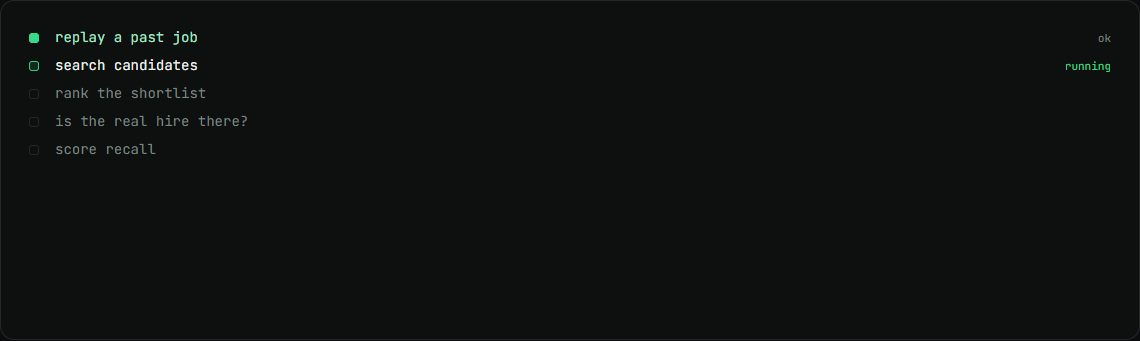
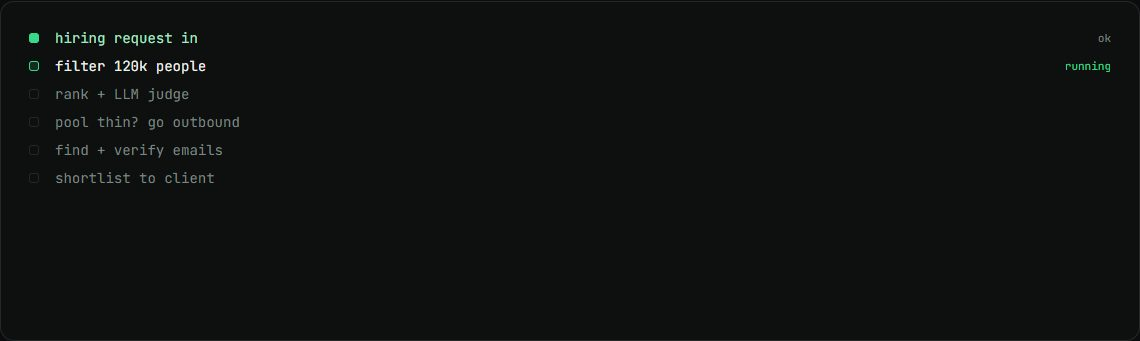
Candidate search page: add search stack, outbound sourcing and client hires
Retitled Candidate search evals to Candidate search and outbound sourcing,
added the outbound tools (AI Ark, Serper, Apify, SalesQL, FullEnrich, Reoon,
ZeroBounce, Instantly), new results, an NDA demo-on-a-call note, and new
DevPlusOps experience points. Moved it to the first standard system.

diff --git a/systems/candidate-search/index.html b/systems/candidate-search/index.html
@@ -3,11 +3,11 @@
 <head>
 <meta charset="utf-8">
 <meta name="viewport" content="width=device-width, initial-scale=1">
-<title>Candidate search evals | Muhammad Ahmad Tehseen</title>
-<meta name="description" content="Measuring and fixing an AI candidate search for a US talent marketplace.">
+<title>Candidate search and outbound sourcing | Muhammad Ahmad Tehseen</title>
+<meta name="description" content="Search the client&#39;s own pool, go outbound when it runs dry, and check every change against real hires.">
 <meta property="og:type" content="website">
-<meta property="og:title" content="Candidate search evals | Muhammad Ahmad Tehseen">
-<meta property="og:description" content="Measuring and fixing an AI candidate search for a US talent marketplace.">
+<meta property="og:title" content="Candidate search and outbound sourcing | Muhammad Ahmad Tehseen">
+<meta property="og:description" content="Search the client&#39;s own pool, go outbound when it runs dry, and check every change against real hires.">
 <meta property="og:image" content="https://muhammadahmadtehseen.github.io/assets/img/candidate-search-1.jpg">
 <meta name="twitter:card" content="summary_large_image">
 <meta name="theme-color" content="#0b0c0d">
@@ -27,27 +27,27 @@
   <p class="back"><a href="../../#systems">← all systems</a></p>
   <header class="sys-head">
     <p class="meta"><span class="light s-progress" aria-hidden="true"></span>in progress · US talent marketplace, via DevPlusOps · Jul 2026 to present</p>
-    <h1 class="h1 sys-title">Candidate search evals</h1>
-    <p class="lead">Measuring and fixing an AI candidate search for a US talent marketplace.</p>
-    <p class="role"><span class="mono dim">my role</span> Forward Deployed Engineer: built the evals, found the fixes, now building features.</p>
+    <h1 class="h1 sys-title">Candidate search and outbound sourcing</h1>
+    <p class="lead">Search the client&#39;s own pool, go outbound when it runs dry, and check every change against real hires.</p>
+    <p class="role"><span class="mono dim">my role</span> Forward Deployed Engineer on a small team: built the search evals, run outbound sourcing and keep client hire records right.</p>
   </header>
-  <div class="loop loop-lg" data-loop="pipeline" data-labels="[&quot;replay a past job&quot;,&quot;search candidates&quot;,&quot;rank the shortlist&quot;,&quot;is the real hire there?&quot;,&quot;score recall&quot;]" aria-hidden="true"></div>
+  <div class="loop loop-lg" data-loop="pipeline" data-labels="[&quot;hiring request in&quot;,&quot;filter 120k people&quot;,&quot;rank + LLM judge&quot;,&quot;pool thin? go outbound&quot;,&quot;find + verify emails&quot;,&quot;shortlist to client&quot;]" aria-hidden="true"></div>
   
-  <section class="sys-sec"><h2 class="h4">The problem</h2><p>The client&#39;s AI search ranks candidates for each new job. Nobody could say how often it found the person who was actually hired, so every change was a guess.</p></section>
+  <section class="sys-sec"><h2 class="h4">The problem</h2><p>Clients send a hiring request and expect a short list of strong people. About 97% of placements came from the client&#39;s own pool of 120,000+ people, so roles too niche for the pool stalled. And nobody could say how often the search found the person who was actually hired.</p></section>
   
-  <section class="sys-sec"><h2 class="h4">How it works</h2><ol class="steps"><li>Replay past jobs and check whether the real hire shows up in the results.</li><li>Compare semantic search with keyword and criteria search, and test each filter on its own.</li><li>A/B test re-ranking models and prompts against the same set.</li><li>Ship the changes that win, and correct the numbers in the open when a bigger run disagrees.</li></ol></section>
+  <section class="sys-sec"><h2 class="h4">How it works</h2><ol class="steps"><li>Hard filters (country, pay, English level, recency) cut the pool of 120,000+ people down to who fits the job.</li><li>Keyword and vector search rank the best few hundred, and a cheap LLM prescreen drops clear misses.</li><li>An LLM judge scores each person against the job&#39;s checklist, and an auditor checks the evidence behind every verdict.</li><li>When the pool runs dry, go outbound: AI Ark people search, Serper (Google search of LinkedIn) and Apify find new people, and the same judge scores them.</li><li>SalesQL and FullEnrich find personal emails, Reoon and ZeroBounce verify them, and Instantly sends only after a person approves the list.</li><li>People who reply apply through the normal candidate flow. When a client hires, the hire and start date are recorded.</li><li>Replay past jobs to check the real hire still shows up, and ship only the changes that win.</li></ol></section>
   
-  <section class="sys-sec"><h2 class="h4">What changed</h2><ul class="results"><li><b>14% to 33%</b><span>recall at 50 from one index fix</span></li><li><b>75%</b><span>of real hires a hard country filter removed</span></li><li><b>41.7%</b><span>recall at 100 for semantic search, vs 13.3% for keywords</span></li></ul></section>
+  <section class="sys-sec"><h2 class="h4">What changed</h2><ul class="results"><li><b>21</b><span>interested candidates from outbound, on a job where 158 pool invites found no one ready</span></li><li><b>14% to 33%</b><span>recall at 50 from one index fix</span></li><li><b>75%</b><span>of real hires a hard country filter removed</span></li><li><b>$0.16</b><span>to judge and audit 96 candidates</span></li><li><b>41.7%</b><span>recall at 100 for semantic search, vs 13.3% for keywords</span></li></ul></section>
   
-  <section class="sys-sec"><h2 class="h4">What I built</h2><ul class="points"><li>The evaluation harness and its checked numbers.</li><li>The recall fix, country as a soft preference instead of a hard filter, and a longer shortlist.</li><li>Later features in the client&#39;s search product, such as an intro-video language check.</li></ul></section>
+  <section class="sys-sec"><h2 class="h4">What I built</h2><ul class="points"><li>The evaluation harness: replay past jobs and score whether the real hire is found. It led to the recall fix, country as a soft preference instead of a hard filter, and a longer shortlist.</li><li>Outbound sourcing runs, with the team, for jobs the pool could not fill: search specs, discovery, email finding and checking, and Instantly campaigns.</li><li>Client hire records: new client accounts, hires and start dates kept in step across Airtable and Postgres.</li><li>Features in the client&#39;s search product, such as an intro-video English check.</li><li>The client is under NDA, so the code stays private. I can walk you through how it works on a call.</li></ul></section>
   
-  <section class="sys-sec"><h2 class="h4">Stack</h2><ul class="chips"><li class="chip">PostgreSQL</li><li class="chip">pgvector</li><li class="chip">TypeScript</li><li class="chip">Node.js</li><li class="chip">Claude Sonnet</li></ul></section>
+  <section class="sys-sec"><h2 class="h4">Stack</h2><ul class="chips"><li class="chip">TypeScript</li><li class="chip">PostgreSQL + pgvector</li><li class="chip">OpenAI embeddings</li><li class="chip">LLM judge + auditor</li><li class="chip">AI Ark</li><li class="chip">Serper</li><li class="chip">Apify</li><li class="chip">SalesQL</li><li class="chip">FullEnrich</li><li class="chip">Reoon</li><li class="chip">ZeroBounce</li><li class="chip">Instantly</li></ul></section>
   
   
-  <section class="sys-sec"><h2 class="h4">Stills</h2><div class="stills"><img src="../../assets/img/candidate-search-1.jpg" alt="Run sheet for Candidate search evals, early in the loop" loading="lazy" decoding="async"><img src="../../assets/img/candidate-search-2.jpg" alt="Run sheet for Candidate search evals, a few steps later" loading="lazy" decoding="async"></div></section>
+  <section class="sys-sec"><h2 class="h4">Stills</h2><div class="stills"><img src="../../assets/img/candidate-search-1.jpg" alt="Run sheet for Candidate search and outbound sourcing, early in the loop" loading="lazy" decoding="async"><img src="../../assets/img/candidate-search-2.jpg" alt="Run sheet for Candidate search and outbound sourcing, a few steps later" loading="lazy" decoding="async"></div></section>
   <nav class="pager" aria-label="More systems">
-    <a href="../../systems/social-catalyst-app/"><span class="dim">previous</span>Social Catalyst app</a>
-    <a href="../../systems/n8n-fleet/"><span class="dim">next</span>n8n fleet and ops dashboard</a>
+    <a href="../../systems/noon-voice/"><span class="dim">previous</span>Noon enrollment kiosk</a>
+    <a href="../../systems/megaapp/"><span class="dim">next</span>MegaApp outreach console</a>
   </nav>
 </article>
 </main>

diff --git a/index.html b/index.html
@@ -96,6 +96,12 @@
   <h3 class="h3 ps-title"><span class="mono prompt">$ ps aux</span> everything else I have built</h3>
   <ol class="ps">
     <li class="ps-head" aria-hidden="true"><span>system</span><span>what it does</span><span>stack</span><span>status</span></li>
+    <li><a class="ps-row" href="./systems/candidate-search/">
+      <span class="ps-name mono">candidate-search</span>
+      <span class="ps-what">Search the client&#39;s own pool, go outbound when it runs dry, and check every change against real hires.</span>
+      <span class="ps-stack">TypeScript · PostgreSQL + pgvector · OpenAI embeddings</span>
+      <span class="ps-status"><span class="light s-progress" aria-hidden="true"></span>in progress</span>
+    </a></li>
     <li><a class="ps-row" href="./systems/megaapp/">
       <span class="ps-name mono">megaapp</span>
       <span class="ps-what">One console for a team&#39;s cold email: campaigns, leads, replies and mailboxes, from the web or Claude.</span>
@@ -107,12 +113,6 @@
       <span class="ps-what">Soch&#39;s LinkedIn content studio, turned into a self-serve product anyone can sign up for.</span>
       <span class="ps-stack">Next.js · TypeScript · Supabase</span>
       <span class="ps-status"><span class="light s-live" aria-hidden="true"></span>live</span>
-    </a></li>
-    <li><a class="ps-row" href="./systems/candidate-search/">
-      <span class="ps-name mono">candidate-search</span>
-      <span class="ps-what">Measuring and fixing an AI candidate search for a US talent marketplace.</span>
-      <span class="ps-stack">PostgreSQL · pgvector · TypeScript</span>
-      <span class="ps-status"><span class="light s-progress" aria-hidden="true"></span>in progress</span>
     </a></li>
     <li><a class="ps-row" href="./systems/n8n-fleet/">
       <span class="ps-name mono">n8n-fleet</span>
@@ -203,7 +203,7 @@
       <p class="meta">Jun 2026 to present · Remote</p>
       <h3 class="h3">DevPlusOps</h3>
       <p class="role">Forward Deployed Engineer</p>
-      <ul class="points"><li>Embedded with a US talent marketplace: scope work with their leadership, build in their own Supabase, n8n and GitHub, and fix production issues when alerts fire.</li><li>Delivered the Airtable to Supabase migration: 397,867 records moved and 636 computed fields rebuilt as live Postgres views, at 99.985% row parity.</li><li>Rebuilt the client&#39;s automations as 53 n8n workflows, and built the first 30 views of a 40-view operations app for 48 users.</li><li>Built evals for their AI candidate search; one index fix roughly doubled recall.</li><li>Built MegaApp, the team&#39;s outreach console, with an MCP server for Claude and 753 tests.</li></ul>
+      <ul class="points"><li>Embedded with a US talent marketplace: scope work with their leadership, build in their own Supabase, n8n and GitHub, and fix production issues when alerts fire.</li><li>Work on their AI candidate search: filters, vector search and an LLM judge with an auditor over 120,000+ people; my evals found an index fix that roughly doubled recall.</li><li>Run outbound sourcing when their pool runs dry: AI Ark, Serper and Apify find people, SalesQL and FullEnrich find emails, Reoon and ZeroBounce verify them, Instantly sends.</li><li>Keep client hire records right: new client accounts, hires and start dates across Airtable and Postgres.</li><li>Delivered the Airtable to Supabase migration (397,867 records, 636 computed fields as live Postgres views, 99.985% row parity) and rebuilt their automations as 53 n8n workflows.</li><li>Built MegaApp, the team&#39;s outreach console, with an MCP server for Claude and 753 tests.</li></ul>
     </li>
     <li class="job">
       <p class="meta">Jan 2026 to present · Lahore</p>

diff --git a/systems/noon-voice/index.html b/systems/noon-voice/index.html
@@ -50,7 +50,7 @@
   <section class="sys-sec"><h2 class="h4">Stills</h2><div class="stills"><img src="../../assets/img/noon-voice-1.jpg" alt="A sample B-form photo being read by Claude Haiku into fields" loading="lazy" decoding="async"><img src="../../assets/img/noon-voice-2.jpg" alt="The kiosk asking which class, spoken in Urdu, with Class 3 tapped" loading="lazy" decoding="async"><img src="../../assets/img/noon-voice-3.jpg" alt="The enrollment flow from B-form photo to the n8n save" loading="lazy" decoding="async"><img src="../../assets/img/noon-voice-4.jpg" alt="One saved record with 31 columns, 29 n8n nodes and 70 calls saved by the speech cache" loading="lazy" decoding="async"></div></section>
   <nav class="pager" aria-label="More systems">
     <a href="../../systems/autoflow/"><span class="dim">previous</span>AutoFlow</a>
-    <a href="../../systems/megaapp/"><span class="dim">next</span>MegaApp outreach console</a>
+    <a href="../../systems/candidate-search/"><span class="dim">next</span>Candidate search and outbound sourcing</a>
   </nav>
 </article>
 </main>

diff --git a/systems/megaapp/index.html b/systems/megaapp/index.html
@@ -46,7 +46,7 @@
   
   <section class="sys-sec"><h2 class="h4">Stills</h2><div class="stills"><img src="../../assets/img/megaapp-1.jpg" alt="Live log for MegaApp outreach console, early in the loop" loading="lazy" decoding="async"><img src="../../assets/img/megaapp-2.jpg" alt="Live log for MegaApp outreach console, a few steps later" loading="lazy" decoding="async"></div></section>
   <nav class="pager" aria-label="More systems">
-    <a href="../../systems/noon-voice/"><span class="dim">previous</span>Noon enrollment kiosk</a>
+    <a href="../../systems/candidate-search/"><span class="dim">previous</span>Candidate search and outbound sourcing</a>
     <a href="../../systems/social-catalyst-app/"><span class="dim">next</span>Social Catalyst app</a>
   </nav>
 </article>

diff --git a/systems/n8n-fleet/index.html b/systems/n8n-fleet/index.html
@@ -46,7 +46,7 @@
   
   <section class="sys-sec"><h2 class="h4">Stills</h2><div class="stills"><img src="../../assets/img/n8n-fleet-1.jpg" alt="Live log for n8n fleet and ops dashboard, early in the loop" loading="lazy" decoding="async"><img src="../../assets/img/n8n-fleet-2.jpg" alt="Live log for n8n fleet and ops dashboard, a few steps later" loading="lazy" decoding="async"></div></section>
   <nav class="pager" aria-label="More systems">
-    <a href="../../systems/candidate-search/"><span class="dim">previous</span>Candidate search evals</a>
+    <a href="../../systems/social-catalyst-app/"><span class="dim">previous</span>Social Catalyst app</a>
     <a href="../../systems/proposal-engine/"><span class="dim">next</span>AI proposal engine</a>
   </nav>
 </article>

diff --git a/systems/social-catalyst-app/index.html b/systems/social-catalyst-app/index.html
@@ -47,7 +47,7 @@
   <section class="sys-sec"><h2 class="h4">Stills</h2><div class="stills"><img src="../../assets/img/social-catalyst-app-1.jpg" alt="Form for Social Catalyst app, early in the loop" loading="lazy" decoding="async"><img src="../../assets/img/social-catalyst-app-2.jpg" alt="Form for Social Catalyst app, a few steps later" loading="lazy" decoding="async"></div></section>
   <nav class="pager" aria-label="More systems">
     <a href="../../systems/megaapp/"><span class="dim">previous</span>MegaApp outreach console</a>
-    <a href="../../systems/candidate-search/"><span class="dim">next</span>Candidate search evals</a>
+    <a href="../../systems/n8n-fleet/"><span class="dim">next</span>n8n fleet and ops dashboard</a>
   </nav>
 </article>
 </main>
